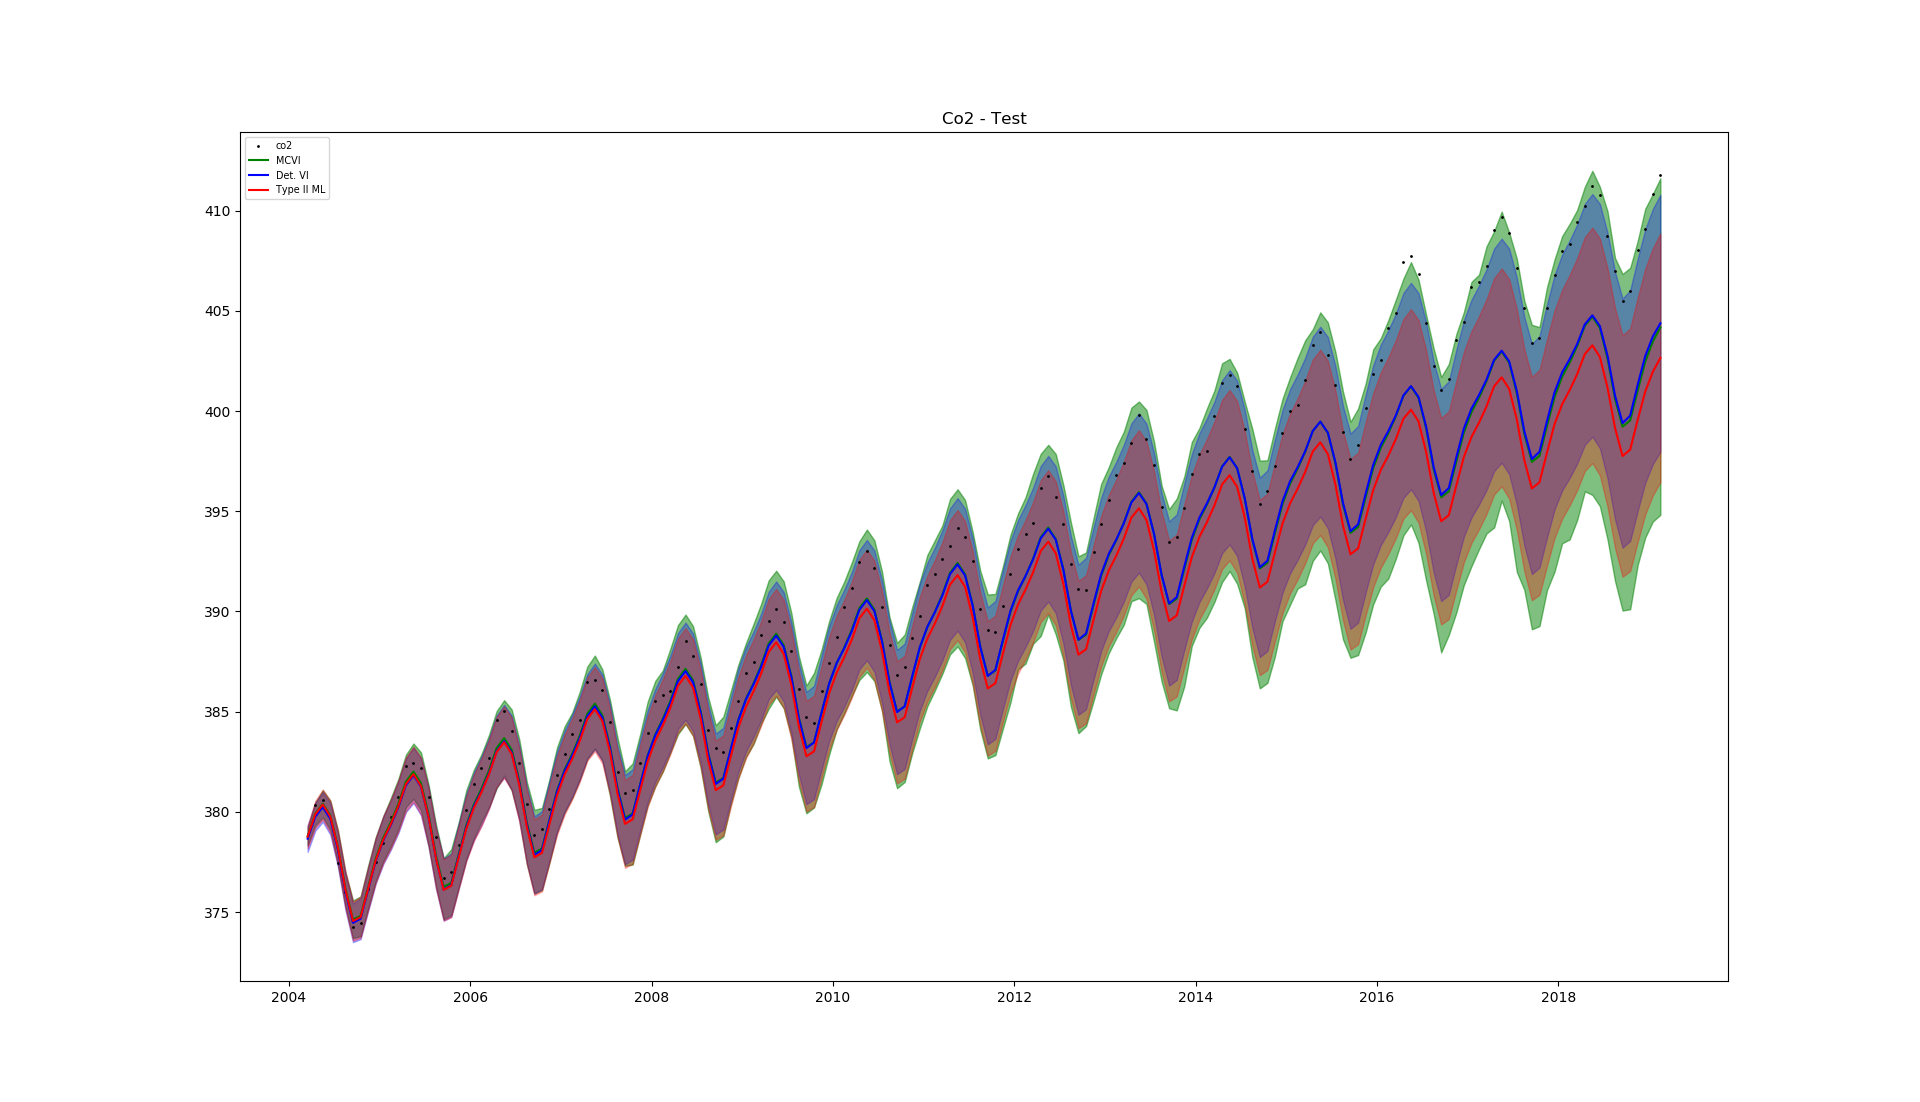
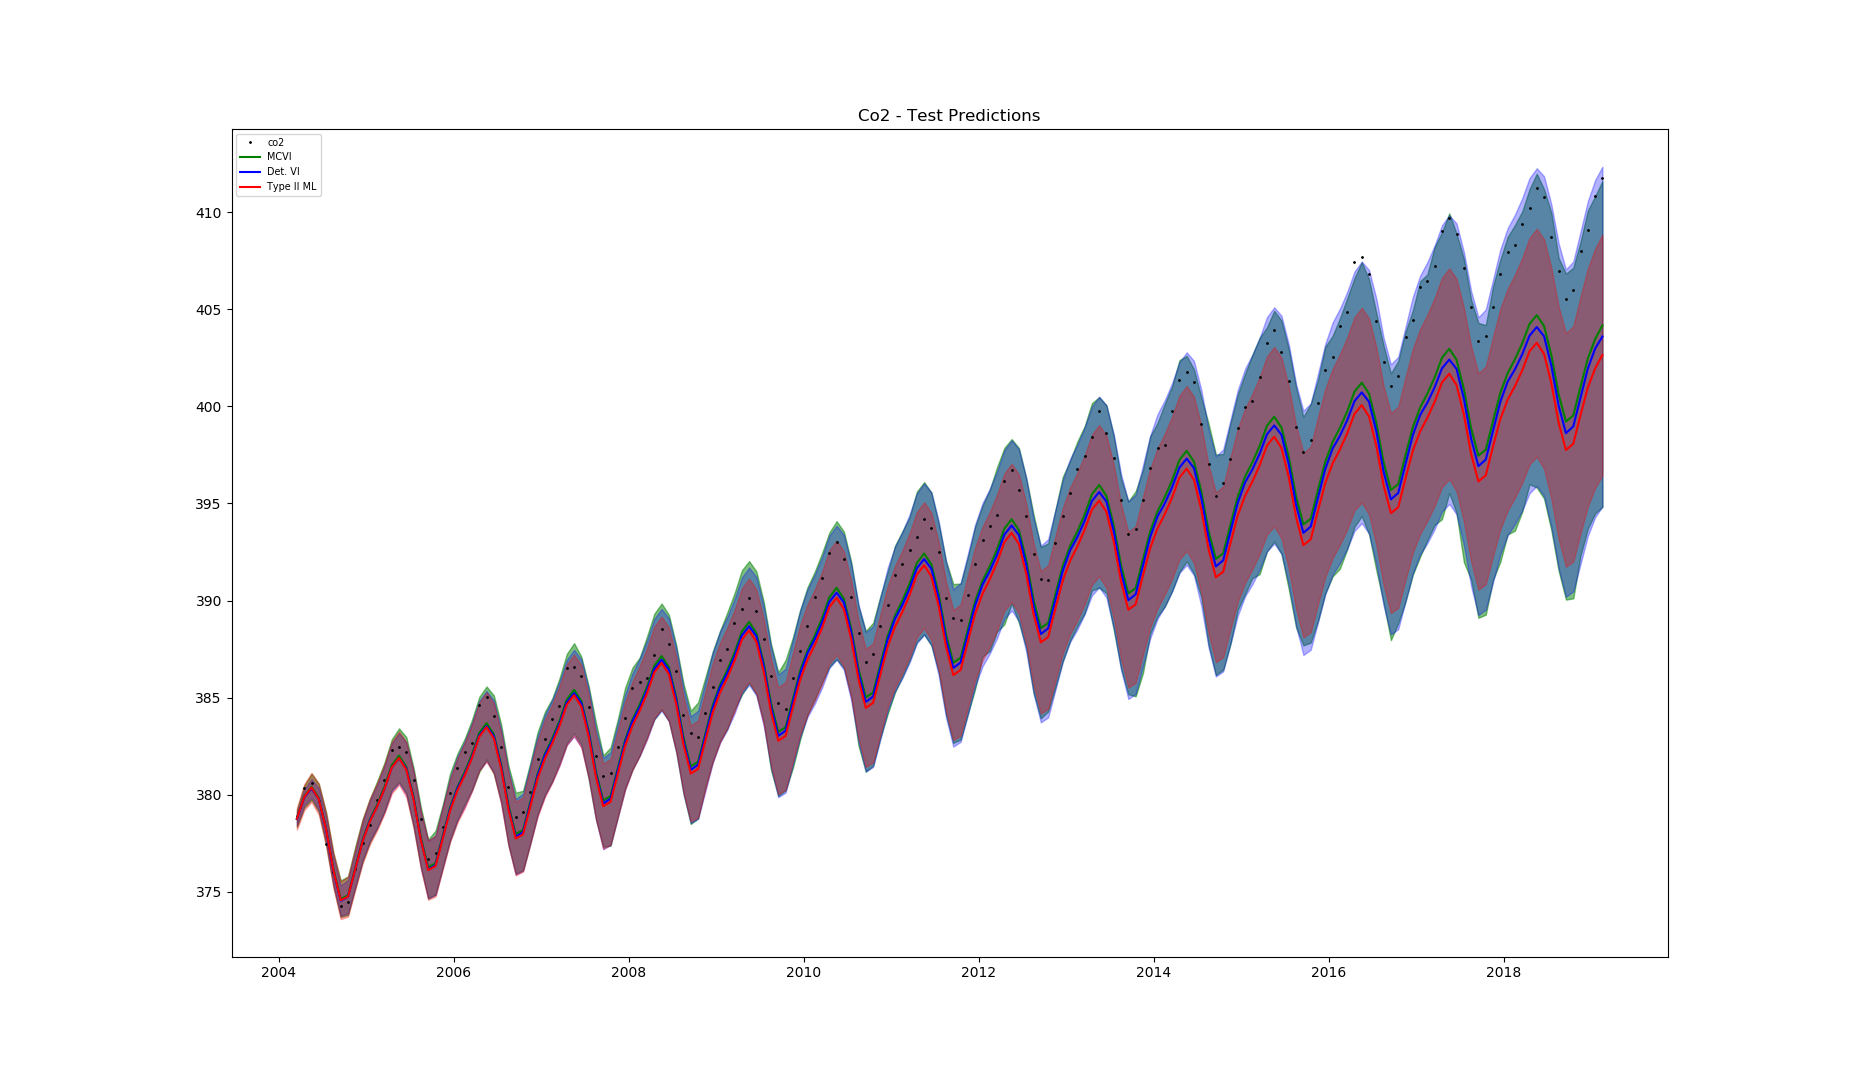
edits

diff --git a/GP/Hyperparameter Integration/airline_analysis.py b/GP/Hyperparameter Integration/airline_analysis.py
@@ -117,11 +117,34 @@ def get_vi_analytical(X, y, X_star, dh, d2h, d2g, theta, mu_theta, cov_theta):
 
     return pred_ng_mean, pred_ng_var
 
+def traceplots(trace, varnames, deltas):
+
+      traces_part1 = pm.traceplot(trace, varnames[0:5], lines=deltas)
+      traces_part2 = pm.traceplot(trace, varnames[5:], lines=deltas)
+      
+      for i in np.arange(5):
+            
+            delta = deltas.get(str(varnames[i]))
+            xmax = max(max(trace[varnames[i]]), delta)
+            traces_part1[i][0].axvline(x=delta, color='r',alpha=0.5, label='ML ' + str(np.round(delta, 2)))
+            traces_part1[i][0].hist(trace[varnames[i]], bins=100, normed=True, color='b', alpha=0.3)
+            traces_part1[i][1].axhline(y=delta, color='r', alpha=0.5)
+            #traces_part1[i][0].axes.set_xlim(xmin, xmax)
+            traces_part1[i][0].legend(fontsize='x-small')
+      
+      for i in np.arange(6):
+            
+            delta = deltas.get(str(varnames[i+5]))
+            traces_part2[i][0].axvline(x=delta, color='r',alpha=0.5, label='ML ' + str(np.round(delta, 2)))
+            traces_part2[i][0].hist(trace[varnames[i+5]], bins=100, normed=True, color='b', alpha=0.3)
+            traces_part2[i][1].axhline(y=delta, color='r', alpha=0.5)
+            #traces_part2[i][0].axes.set_xscale('log')
+            traces_part2[i][0].legend(fontsize='x-small')
 
 def write_posterior_predictive_samples(trace, thin_factor, X, y, X_star, path, method):
       
-      means_file = path + 'means_' + method + '_' + str(len(X)) + '.csv'
-      std_file = path + 'std_' + method + '_' + str(len(X)) + '.csv'
+      means_file = path + 'means_' + method + '.csv'
+      std_file = path + 'std_' + method + '.csv'
       #trace_file = path + 'trace_' + method + '_' + str(len(X)) + '.csv'
     
       means_writer = csv.writer(open(means_file, 'w')) 
@@ -238,7 +261,7 @@ def convergence_report(tracker, param_dict, elbo, title):
 #                   i = i + 8
 #                   print(i)
             plt.subplot(2,4,np.mod(i, 8)+1)
-            plt.plot(mean_mf_df[varnames[i+8]], color='coral')
+            #plt.plot(mean_mf_df[varnames[i+8]], color='coral')
             plt.plot(mean_fr_df[varnames[i+8]], color='green')
             plt.title(varnames[i+8])
             plt.axhline(param_dict['mu_implicit'][varnames[i+8]], color='r')
@@ -256,6 +279,96 @@ def convergence_report(tracker, param_dict, elbo, title):
       hist_ax.set_title('Negative ELBO track');
       fig.suptitle(title)
 
+
+# Implicit variational posterior density
+            
+def get_implicit_variational_posterior(var, means, std, x):
+      
+      sigmoid = lambda x : 1 / (1 + np.exp(-x))
+      
+      if (var.name[-2:] == '__'):
+            # Then it is an interval variable
+            
+            eps = lambda x : var.distribution.transform_used.forward_val(np.log(x))
+            backward_theta = lambda x: var.distribution.transform_used.backward(x).eval()   
+            width = (var.distribution.transform_used.b -  var.distribution.transform_used.a).eval()
+            total_jacobian = lambda x: x*(width)*sigmoid(eps(x))*(1-sigmoid(eps(x)))
+            pdf = lambda x: st.norm.pdf(eps(x), means[var.name], std[var.name])/total_jacobian(x)
+            return pdf(x)
+      
+      else:
+            # Then it is just a log variable
+            
+            pdf = lambda x: st.norm.pdf(np.log(x), means[var.name], std[var.name])/x   
+            return pdf(x)
+            
+
+# Converting raw params back to param space
+
+def analytical_variational_opt(model, param_dict, summary_trace):
+      
+      keys = list(param_dict['mu'].keys())
+      
+      # First tackling transformed means
+      
+      mu_implicit = {}
+      rho_implicit = {}
+      for i in keys:
+            if (i[-2:] == '__'):
+                  name = name_mapping[i]
+                  mean_value = np.exp(raw_mapping.get(i).distribution.transform_used.backward(param_dict['mu'][i]).eval())
+                  sd_value = summary_trace['sd'][name]
+                  mu_implicit.update({name : np.array(mean_value)})
+                  rho_implicit.update({name : np.array(sd_value)})
+            else:
+                  name = name_mapping[i]
+                  mean_value = np.exp(param_dict['mu'][i])
+                  sd_value = summary_trace['sd'][name]
+                  name = name_mapping[i]
+                  mu_implicit.update({name : np.array(mean_value)})
+                  rho_implicit.update({name : np.array(sd_value)})
+      param_dict.update({'mu_implicit' : mu_implicit})
+      param_dict.update({'rho_implicit' : rho_implicit})
+
+      return param_dict
+
+rv_mapping = {'s_1':  airline_model.log_s1, 
+              'ls_2': airline_model.log_l2_interval__, 
+              's_3':  airline_model.log_s3_interval__,
+              'ls_4': airline_model.log_l4_interval__,
+              'ls_5': airline_model.log_l5_interval__,
+              's_6': airline_model.log_s6,
+              'ls_7': airline_model.log_l7_interval__,
+              'alpha_8': airline_model.log_alpha8,
+              's_9': airline_model.log_s9_interval__,
+              'ls_10': airline_model.log_l10_interval__,
+               'n_11': airline_model.log_n11_interval__
+                    }
+
+raw_mapping = {'log_s1':  airline_model.log_s1, 
+              'log_l2_interval__': airline_model.log_l2_interval__, 
+              'log_s3_interval__':  airline_model.log_s3_interval__,
+              'log_l4_interval__': airline_model.log_l4_interval__,
+              'log_l5_interval__': airline_model.log_l5_interval__,
+              'log_s6': airline_model.log_s6,
+              'log_l7_interval__': airline_model.log_l7_interval__,
+              'log_alpha8': airline_model.log_alpha8,
+              'log_s9_interval__': airline_model.log_s9_interval__,
+              'log_l10_interval__': airline_model.log_l10_interval__,
+               'log_n11_interval__': airline_model.log_n11_interval__ }
+
+
+name_mapping = {'log_s1':  's_1', 
+              'log_l2_interval__': 'ls_2', 
+              'log_s3_interval__':  's_3',
+              'log_l4_interval__': 'ls_4',
+              'log_l5_interval__': 'ls_5',
+              'log_s6': 's_6',
+              'log_l7_interval__': 'ls_7',
+              'log_alpha8': 'alpha_8',
+              'log_s9_interval__': 's_9',
+              'log_l10_interval__': 'ls_10',
+              'log_n11_interval__': 'n_11'}
 
 
 if __name__ == "__main__":
@@ -373,29 +486,31 @@ with pm.Model() as airline_model:
   
       # prior on lengthscales
        
-       log_l2 = pm.Uniform('log_l2', lower=5, upper=12, testval=np.log(ml_deltas['ls_2']))
-       log_l4 = pm.Uniform('log_l4', lower=-10, upper=10, testval=np.log(ml_deltas['ls_4']))
-       log_l5 = pm.Uniform('log_l5', lower=-1, upper=3, testval=np.log(ml_deltas['ls_5']))
-       log_l7 = pm.Uniform('log_l7', lower=-7, upper=3, testval=np.log(ml_deltas['ls_7']))
-       log_l10 = pm.Uniform('log_l10', lower=-10, upper=5, testval=np.log(ml_deltas['ls_10']))
+       #log_l2 = pm.Uniform('log_l2', lower=8, upper=10, testval=np.log(ml_deltas['ls_2']))
+       #log_l4 = pm.Uniform('log_l4', lower=-10, upper=10, testval=np.log(ml_deltas['ls_4']))
+       log_l5 = pm.Uniform('log_l5', lower=-1, upper=2, testval=np.log(ml_deltas['ls_5']))
+       #log_l7 = pm.Uniform('log_l7', lower=-7, upper=3, testval=np.log(ml_deltas['ls_7']))
+       #log_l10 = pm.Uniform('log_l10', lower=-10, upper=5, testval=np.log(ml_deltas['ls_10']))
 
-       ls_2 = pm.Deterministic('ls_2', tt.exp(log_l2))
-       ls_4 = pm.Deterministic('ls_4', tt.exp(log_l4))
+       log_p = pm.Uniform('log_p', lower=1, upper=10 )
+
+       #ls_2 = pm.Deterministic('ls_2', tt.exp(log_l2))
+       #ls_4 = pm.Deterministic('ls_4', tt.exp(log_l4))
        ls_5 = pm.Deterministic('ls_5', tt.exp(log_l5))
-       ls_7 = pm.Deterministic('ls_7', tt.exp(log_l7))
-       ls_10 = pm.Deterministic('ls_10', tt.exp(log_l10))
+       #ls_7 = pm.Deterministic('ls_7', tt.exp(log_l7))
+       #ls_10 = pm.Deterministic('ls_10', tt.exp(log_l10))
        
-       #ls_2 = 70
-       #ls_4 = 85
-       #ls_7 = 1.88
-       #ls_10 = 0.1219
+       ls_2 = ml_deltas['ls_2']
+       ls_4 = ml_deltas['ls_4']
+       ls_7 = ml_deltas['ls_7']
+       ls_10 = ml_deltas['ls_10']
      
        # prior on amplitudes
 
-       log_s1 = pm.Normal('log_s1', mu=np.log(ml_deltas['s_1']), sd=0.5)
+       log_s1 = pm.Normal('log_s1', mu=np.log(ml_deltas['s_1']), sd=1)
        #log_s1 = pm.Uniform('log_s1', lower=-5, upper=7)
-       log_s3 = pm.Uniform('log_s3', lower=-5, upper=10, testval=np.log(ml_deltas['s_3']))
-       log_s6 = pm.Normal('log_s6', mu=np.log(ml_deltas['s_6']), sd=0.5)
+       log_s3 = pm.Normal('log_s3', mu=np.log(ml_deltas['s_3']), sd=1)
+       log_s6 = pm.Normal('log_s6', mu=np.log(ml_deltas['s_6']), sd=1)
        log_s9 = pm.Uniform('log_s9', lower=-1, upper=2, testval=np.log(ml_deltas['s_9']))
 
        s_1 = pm.Deterministic('s_1', tt.exp(log_s1))
@@ -414,15 +529,15 @@ with pm.Model() as airline_model:
        
        # prior on noise variance term
       
-       log_n11 = pm.Uniform('log_n11', lower=-2, upper=5, testval=np.log(ml_deltas['n_11']))
-       n_11 = pm.Deterministic('n_11', tt.exp(log_n11))
+       #log_n11 = pm.Uniform('log_n11', lower=-5, upper=5, testval=np.log(ml_deltas['n_11']))
+       #n_11 = pm.Deterministic('n_11', tt.exp(log_n11))
        
-       #n_11 = 0.195
+       n_11 = ml_deltas['alpha_8']
        
        # Specify the covariance function
        
        k1 = pm.gp.cov.Constant(s_1**2)*pm.gp.cov.Matern52(1, ls_2) 
-       k2 = pm.gp.cov.Constant(s_3**2)*pm.gp.cov.ExpQuad(1, ls_4)*pm.gp.cov.Periodic(1, period=1, ls=ls_5)
+       k2 = pm.gp.cov.Constant(s_3**2)*pm.gp.cov.ExpQuad(1, ls_4)*pm.gp.cov.Periodic(1, period=p, ls=ls_5)
        k3 = pm.gp.cov.Constant(s_6**2)*pm.gp.cov.RatQuad(1, alpha=alpha_8, ls=ls_7)
        k4 = pm.gp.cov.Constant(s_9**2)*pm.gp.cov.ExpQuad(1, ls_10) +  pm.gp.cov.WhiteNoise(n_11)
 
@@ -435,7 +550,7 @@ with pm.Model() as airline_model:
               
 with co2_model:
       
-      # HMC Nuts auto-tuning implementation
+      # HMC NUTS auto-tuning implementation
 
       trace_hmc = pm.sample(draws=700, tune=500, chains=1)
             
@@ -463,16 +578,49 @@ with airline_model:
       mean = fr.approx.mean.eval,    
       std = fr.approx.std.eval)
       
-      fr.fit(n=20000, callbacks=[tracker_fr])
+      fr.fit(n=50000, callbacks=[tracker_fr])
       trace_fr = fr.approx.sample(4000)
+      
+      bij_mf = mf.approx.groups[0].bij
+mf_param = {param.name: bij_mf.rmap(param.eval())
+	 for param in mf.approx.params}
+
+      bij_fr = fr.approx.groups[0].bij
+fr_param = {param.name: bij_fr.rmap(param.eval())
+	 for param in fr.approx.params}
+
+      check_mf.approx.params[0].set_value(bij_mf.map(mf_param['mu']))
+      check_mf.approx.params[1].set_value(bij_mf.map(mf_param['rho']))
+
+      # Updating with implicit values
+      
+      mf_param = analytical_variational_opt(airline_model, mf_param, pm.summary(trace_mf))
+      fr_param = analytical_variational_opt(airline_model, fr_param, pm.summary(trace_fr))
+
+      # Saving raw ADVI results
+      
+      mf_df = pd.DataFrame(mf_param)
+      fr_df = pd.DataFrame(fr_param)
+      
+      # TRaceplots
+      
+      varnames = ['s_1', 'ls_5', 's_3', 's_6', 's_9', 'alpha_8']
+      traceplots(trace_fr, varnames, ml_deltas)
+      
+      # Testing convergence
+      
+      convergence_report(tracker_fr, fr_param, fr.hist, 'Full Rank Convergence Report')
       
       # Writing out posterior predictive means
       
       write_posterior_predictive_samples(trace_fr, 100, t_train, y_train, t_test, results_path, 'fr')
 
-sample_means_fr = pd.read_csv(results_path + 'pred_dist/' + 'means_fr.csv')
-sample_stds_fr = pd.read_csv(results_path + 'pred_dist/' + 'std_fr.csv')
-
-lower_fr, upper_fr = get_posterior_predictive_uncertainty_intervals(sample_means_fr, sample_stds_fr)
+      sample_means_fr = pd.read_csv(results_path + 'means_fr_100.csv')
+      sample_stds_fr = pd.read_csv(results_path + 'pred_dist/' + 'std_fr.csv')
       
+      lower_fr, upper_fr = get_posterior_predictive_uncertainty_intervals(sample_means_fr, sample_stds_fr)
+            
+      #
       
+      plt.figure()
+      plt.plot(t_test, sample_means_fr.T)

diff --git a/GP/Hyperparameter Integration/co2_analytical.py b/GP/Hyperparameter Integration/co2_analytical.py
@@ -214,11 +214,12 @@ if __name__ == "__main__":
       plt.figure()
       plt.plot(df['year'][sep_idx:], df['co2'][sep_idx:], 'ko', markersize=1)
       plt.plot(df['year'][sep_idx:], np.mean(sample_mcvi_means), alpha=1, label='MCVI', color='g')
-      plt.plot(df['year'][sep_idx:], pred_ng_mean, alpha=1, label='Det. VI', color='b')
+      plt.plot(df['year'][sep_idx:], pred_ng_mean, alpha=1, label='Analytical VI', color='b')
       plt.fill_between(df['year'][sep_idx:], lower_fr, upper_fr, color='green', alpha=0.5)
       plt.fill_between(df['year'][sep_idx:], (pred_ng_mean - 1.96*np.sqrt(pred_ng_var)), (pred_ng_mean + 1.96*np.sqrt(pred_ng_var)), color='b', alpha=0.3)
       plt.plot(df['year'][sep_idx:], mu_test, alpha=1, label='Type II ML', color='r')
       plt.fill_between(df['year'][sep_idx:], (mu_test - 1.96*std_test), (mu_test + 1.96*std_test), color='red', alpha=0.3)
-plt.legend(fontsize='x-small')
+      plt.legend(fontsize='x-small')
+      plt.title('Co2 - Test Predictions')
 
 
